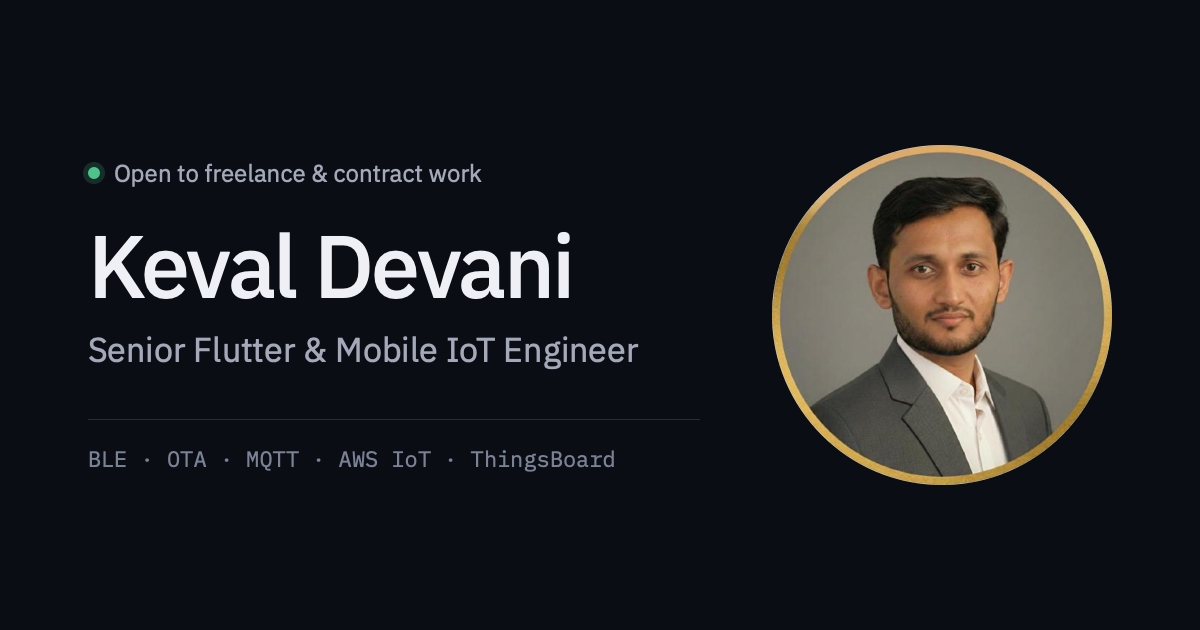
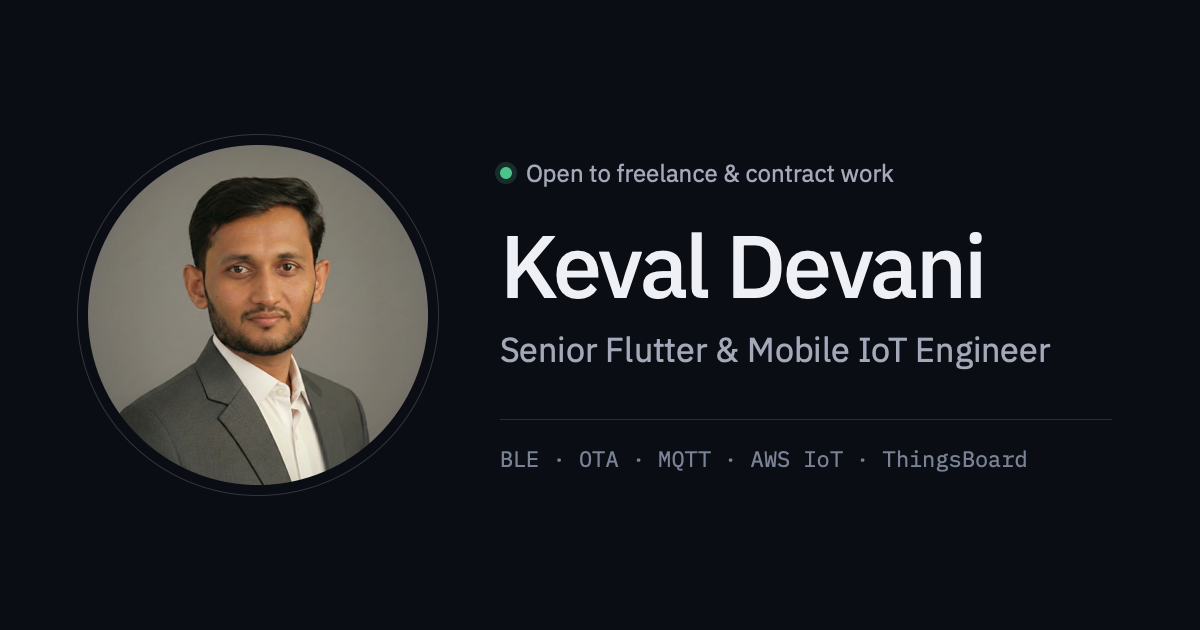
style: use new portrait and place it left of the hero text
Swap in a higher-resolution photo without the baked-in ring and move it to the left of the hero text on desktop so the subject turns toward the headline. Regenerate the link preview image to match.

Changed region(s): [[0.0617, 0.2111, 0.925, 0.7841], [0.4008, 0.6937, 0.5242, 0.754], [0.555, 0.6937, 0.5858, 0.754]]

diff --git a/assets/css/style.css b/assets/css/style.css
@@ -217,7 +217,7 @@ code { font-family: var(--mono); font-size: .95em; }
 .hero { padding: 48px 0 64px; overflow-x: clip; }
 @media (min-width: 900px) { .hero { padding: 96px 0 80px; } }
 .hero-grid { display: grid; gap: 48px; align-items: center; }
-@media (min-width: 900px) { .hero-grid { grid-template-columns: 1.3fr 1fr; gap: 64px; } }
+@media (min-width: 900px) { .hero-grid { grid-template-columns: 1fr 1.3fr; gap: 64px; } }
 
 .status { display: inline-flex; align-items: center; gap: 12px; font-size: 14px; line-height: 20px; color: var(--text-2); }
 .hero h1 {
@@ -233,8 +233,10 @@ code { font-family: var(--mono); font-size: .95em; }
   width: min(380px, 80vw); aspect-ratio: 1; border-radius: 50%; object-fit: cover;
   background: var(--surface);
   box-shadow: var(--shadow-md);
+  outline: 1px solid var(--hairline-strong); outline-offset: 8px;
 }
-@media (min-width: 900px) { .hero-visual { justify-content: flex-end; } }
+/* Photo sits left of the text on desktop so the subject turns toward the headline */
+@media (min-width: 900px) { .hero-visual { order: -1; justify-content: flex-start; } }
 
 /* One entrance on load: hero copy and portrait fade and rise */
 @media (prefers-reduced-motion: no-preference) {

diff --git a/og.html b/og.html
@@ -17,16 +17,16 @@
     h1 { font-size: 88px; line-height: 1; margin: 32px 0 0; font-weight: 500; letter-spacing: -.03em; }
     .role { font-size: 34px; color: #a3a9b8; margin-top: 18px; }
     .meta { margin-top: 48px; padding-top: 24px; border-top: 1px solid rgba(238,240,245,.14); font-family: "IBM Plex Mono", monospace; font-size: 22px; color: #7a8296; }
-    img { width: 340px; height: 340px; border-radius: 50%; }
+    img { width: 340px; height: 340px; flex-shrink: 0; object-fit: cover; border-radius: 50%; outline: 1px solid rgba(238,240,245,.18); outline-offset: 10px; }
   </style>
 </head>
 <body>
+  <img src="assets/img/avatar.jpg" alt="">
   <div class="copy">
     <div class="status"><span class="led"></span>Open to freelance &amp; contract work</div>
     <h1>Keval Devani</h1>
     <div class="role">Senior Flutter &amp; Mobile IoT Engineer</div>
     <div class="meta">BLE · OTA · MQTT · AWS IoT · ThingsBoard</div>
   </div>
-  <img src="assets/img/avatar.jpg" alt="">
 </body>
 </html>

diff --git a/index.html b/index.html
@@ -127,7 +127,7 @@
           </div>
         </div>
         <div class="hero-visual">
-          <img class="portrait" src="assets/img/avatar.jpg" width="460" height="460" alt="Portrait of Keval Devani" fetchpriority="high">
+          <img class="portrait" src="assets/img/avatar.jpg" width="800" height="800" alt="Portrait of Keval Devani" fetchpriority="high">
         </div>
       </div>
 
